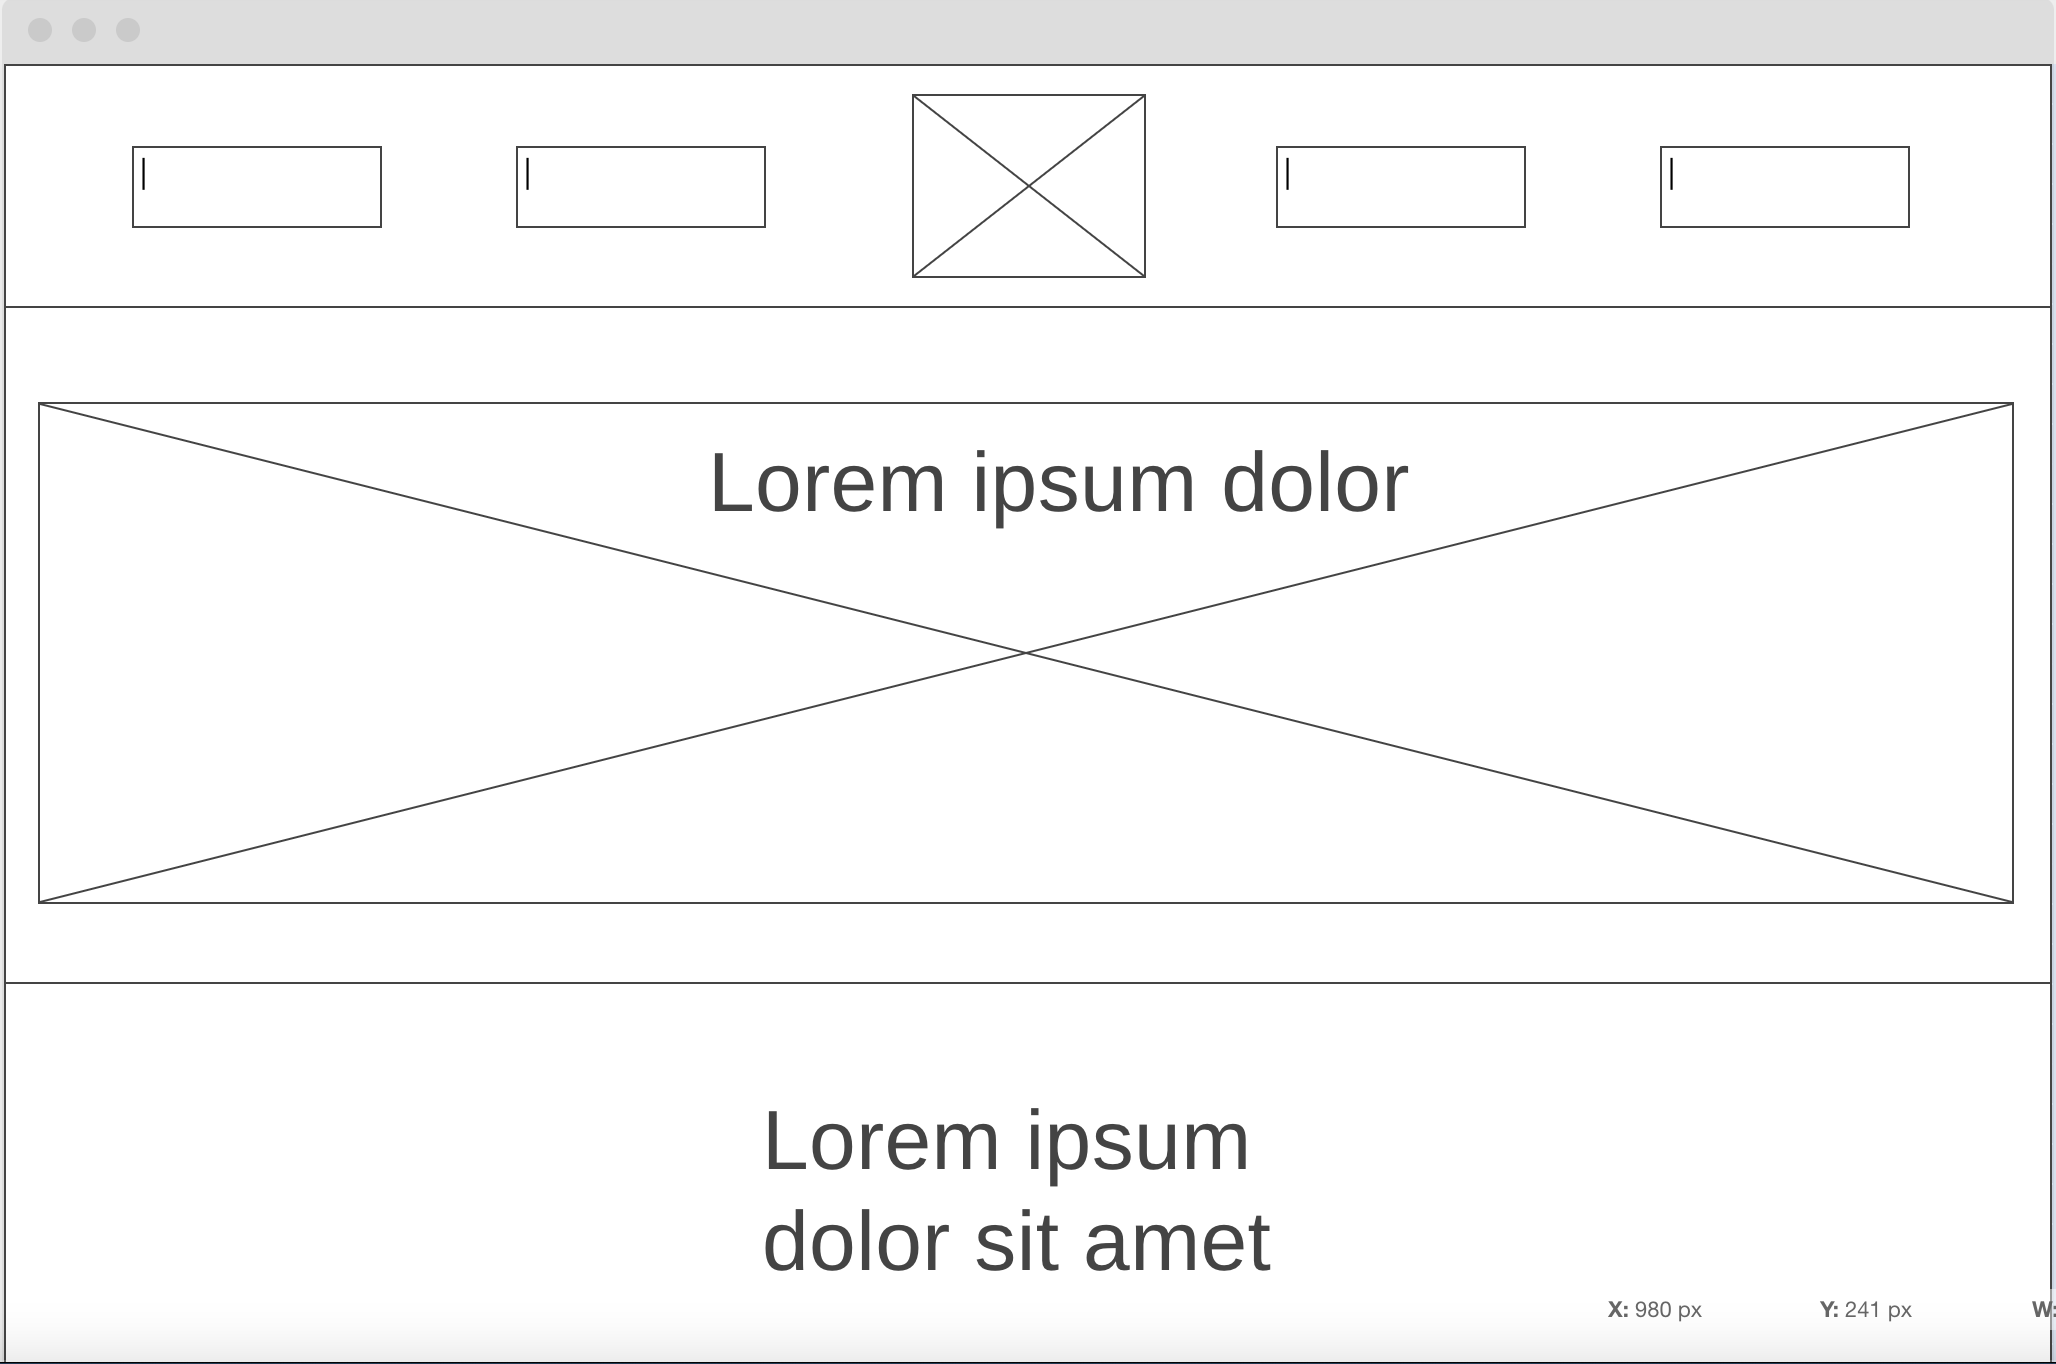
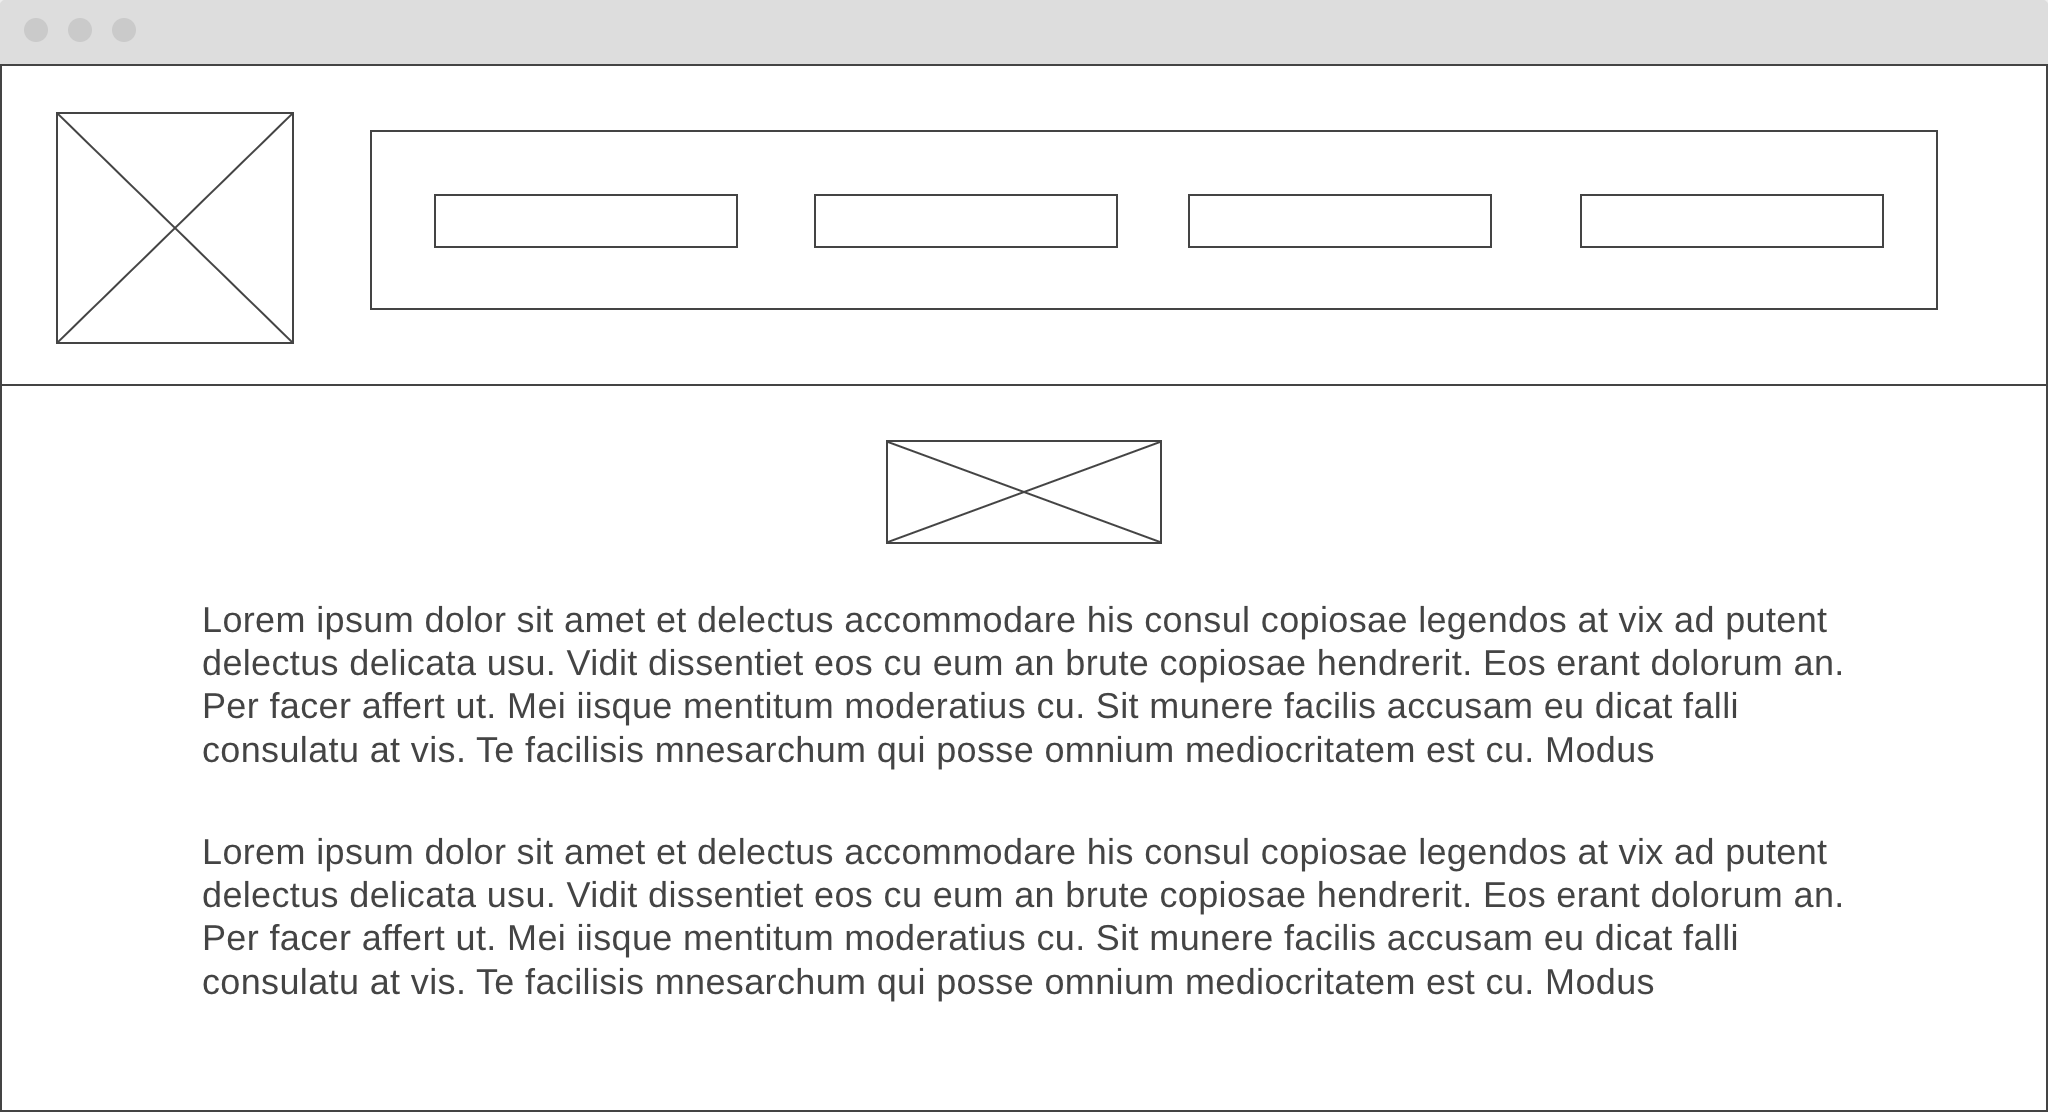
personal site home page css 11/29

diff --git a/personalsite/index.html b/personalsite/index.html
@@ -5,7 +5,7 @@
     <meta http-equiv="X-UA-Compatible" content="IE=edge">
     <meta name="viewport" content="width=device-width, initial-scale=1.0">
     <title>Tada! website</title>
-    <link type="text/css" rel="stylesheet" href="styles/site-plan.css">
+    <link type="text/css" rel="stylesheet" href="styles/styles.css">
 </head>
 <body>
     <div id="content">
@@ -21,10 +21,34 @@
     </nav>
     </div>
     <header>
-        <p>
-        </p>
+       <main class="home-main"></main>
+            <div class="home-main-title">
+                <h1>Tada!</h1>
+                <h2>Welcome to Tada! As a Graphic Designer, I can help those who come to 
+                    me for designspiration and provide my best most aesthetic 
+                    eye to their aid. I can revamp, recolor, redraw, and redo any logo, 
+                    website, or labeling and before you know it... Tada! Pure magic. 
+                    Your preferred audience will LOVE what they're seeing.</h2>
+                <h3>I love creating designs. I am a Graphic Designer and I really 
+                    enjoy making art and logos for people to use. Small business owners 
+                    are getting less small these days and they need a better way to present 
+                    themselves to the world, I can help with that!</h3>
+            </div>
     </header>
         <img class="page1" src="images/photo1.jpg" alt="paint wall">
-        <img class="page1.2" src="images/photo2.jpg" alt="writing">
+            <main class="home-second-paragraph"></main>
+                <div class="home-second-paragraph"></div>
+                <h1>The Website</h1>
+                <h2>Tada is a website that is designed to help anyone who needs 
+                    their logo, advertising, or packaging dreams come true! All you need to do 
+                    is fill out the information below such as: Contact information: Name, number, 
+                    email address Your company name Current company or business representation What 
+                    type of branding you need: company logo, packaging, flyers etc Style: colors, 
+                    mood, fonts etc Target Audience Price range How many items created Its as simple 
+                    as that! When you hit submit I will look things over and get back to you as soon 
+                    as possible. When this is completed you have the option to meet virtually with me 
+                    so we can talk more about what you are envisioning and get on the same designing 
+                    page!</h2>
+        <img class="page1-2" src="images/photo2.jpg" alt="writing">
 </body>
 </html>

diff --git a/personalsite/styles/styles.css b/personalsite/styles/styles.css
@@ -1,0 +1,99 @@
+@import url('https://fonts.googleapis.com/css2?family=Josefin+Sans&family=Shrikhand&display=swap');
+:root {
+  /* change the values below to your colors from your palette */
+  --primary-color:  #F07159;
+  --secondary-color:#FBC88D;
+  --accent1-color:  #80A7d5;
+  --accent2-color:  #DECC61;
+  --accent3-color:  #C7BBA1;
+  --accent4-color:  #fde5a2;
+/*fonts*/
+  --heading-font: "Shrik hand";
+  --paragraph-font: Josefin Sans, Helvetica, sans-serif;
+/* color of fonts */
+  --headline-color-on-white: #F07159;  /* headlines on a white background */ 
+  --headline-color-on-color: white; /* headlines on a colored background */ 
+  --paragraph-color-on-white: #bcd3e4; /* paragraph text on a white background */ 
+  --paragraph-color-on-color: white; /* paragraph text on a colored background */ 
+  --paragraph-background-color: #C7BBA1  ;
+  --nav-link-color: #F07159;
+  --nav-background-color: #DECC61;
+  --nav-hover-link-color: white;
+  --nav-hover-background-color: #eddd88;
+}
+
+.home-main-title{
+    color:#F07159;
+    text-align: center;
+}
+body {
+    background-color:#ffefc2;
+    font-size: 22px;
+
+}
+header {
+    background-color:#ffefc2;
+    display: grid;
+    grid-template-columns: 200px auto;
+    grid-template-rows: 100px;
+}
+h2{
+    font-family: Josefin Sans;
+    font-size: 20px;
+    padding-top: 30px;
+}
+h3{
+    font-family: Josefin Sans;
+    font-size: 20px;   
+}
+.logo{
+    width: 200px;
+    padding-top: 10px;
+    padding-left: 10px;
+}
+
+.about-me-title{
+    color:#bcd3e4;
+}
+.idea-main-title{
+    color:#DECC61;
+}
+nav{
+    background-color: var(--nav-background-color);
+    line-height: 3em;
+    text-align: center;
+    font-size: 1em;
+}
+nav{
+    list-style-type: none;
+    display: flex;
+  
+}
+nav a {
+    padding:1em;
+    min-width: 100px;
+    text-decoration: none;
+    padding: 10px auto;
+    
+}
+nav a:link, nav a:visited {
+  color: var(--nav-link-color);
+}
+nav a:hover {
+  color: var(--nav-hover-link-color);
+  background-color: var(--nav-hover-background-color);
+}
+
+.page1{
+    width: 80%;
+    padding-left: 200px;
+    padding-top: 200px;
+}
+.page1-2{
+    width: 80%;
+    padding-left: 200px;
+    padding-top: 100px;
+}
+.home-second-paragraph{
+    color:#F07159;
+}

diff --git a/personalsite/aboutme.html b/personalsite/aboutme.html
@@ -5,12 +5,16 @@
     <meta http-equiv="X-UA-Compatible" content="IE=edge">
     <meta name="viewport" content="width=device-width, initial-scale=1.0">
     <title>Document</title>
-    <link type="text/css" rel="stylesheet" href="styles/site-plan.css">
+    <link type="text/css" rel="stylesheet" href="styles/styles.css">
 </head>
 <body>
     <div id="content">
         <header>
-            <a id="logo_link" href="index.html">
+        <a id="logo_link" href="index.html"></a>
+        <a href="index.html">Home!</a>
+        <a href="idea.html">The Idea!</a>
+        <a href="site-plan.html">Site plan!</a>
+        <a href="aboutme.html">About me!</a>
            <img class="logo" src="images/tadalogo.png" alt="Tada!">
     <main class="about-me-main">
         <div class="about-me-title">

diff --git a/personalsite/idea.html b/personalsite/idea.html
@@ -5,12 +5,15 @@
     <meta http-equiv="X-UA-Compatible" content="IE=edge">
     <meta name="viewport" content="width=device-width, initial-scale=1.0">
     <title>Document</title>
-    <link type="text/css" rel="stylesheet" href="styles/site-plan.css">
+    <link type="text/css" rel="stylesheet" href="styles/styles.css">
 </head>
 <body>
     <div id="content">
         <header>
-            <a id="logo_link" href="index.html">
+        <a id="logo_link" href="index.html">Home!</a>
+        <a href="idea.html">The Idea!</a>
+        <a href="site-plan.html">Site plan!</a>
+        <a href="aboutme.html">About me!</a>
            <img class="logo" src="images/tadalogo.png" alt="Tada!">
     <main class="idea-main">
         <div class="idea-main-title">
